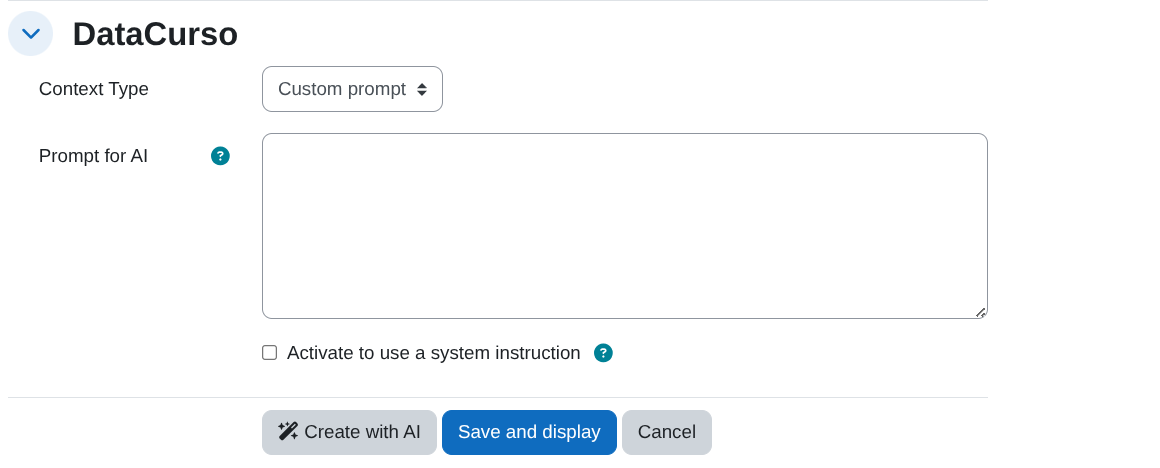
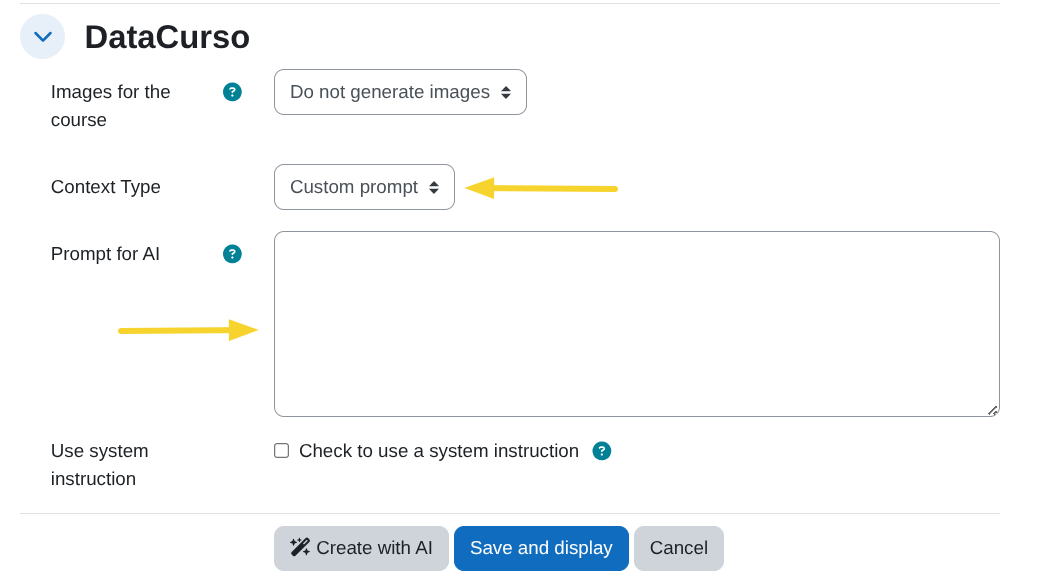
docs: update README to include image generation configuration on course form

diff --git a/README.md b/README.md
@@ -116,16 +116,23 @@ Follow these steps to create a new course using the Datacurso AI workflow:
 
 ### Configure the Datacurso section
 
-The `Datacurso` section controls how the AI will understand the course you want to create. It is divided into three main parts:
+The `Datacurso` section lets you define the context that the AI will use to understand the course you want to create and whether it should generate images. It is divided into four main configuration areas:
 
-- **1. Context type**
+- **1. Images for the course**
+  - Use the **Images for the course** selector to decide whether the AI should generate images for sections, activities and other visual elements of the course.
+  - By default this is set to **Do not generate images**.
+  - **Important:** Enabling image generation may drastically increase the number of credits consumed in your Datacurso AI Provider license key, because each generated image uses additional credits.
+
+  ![Image generation option](./_docs/images/local_coursegen_image_generation_option.png)
+
+- **2. Context type**
   - Use the **Context Type** selector to choose how you will provide the main context for the course:
     - **Custom prompt**: You describe the course context manually.
     - **Upload Syllabus (PDF)**: You provide an existing syllabus document.
 
     ![Context type](./_docs/images/local_coursegen_context_type.png)
 
-- **2. Context details**
+- **3. Context details**
   - **If you choose Custom prompt**
     - A textarea labeled **Prompt for AI** appears.
     - Enter a clear and detailed prompt that describes how you want the course to be generated (objectives, student profile, content, level, constraints, examples, etc.).
@@ -138,9 +145,9 @@ The `Datacurso` section controls how the AI will understand the course you want 
     
     ![Upload Syllabus](./_docs/images/local_coursegen_upload_syllabus.png)
 
-- **3. Optional system instructions (for any context type)**
+- **4. Optional system instructions (for any context type)**
   - You can reinforce **either** context type (`Custom prompt` or `Syllabus`) with a reusable system instruction.
-  - Tick the checkbox **Activate to use a system instruction** to enable this feature.
+  - Tick the checkbox **Check to use a system instruction** to enable this feature.
   - If there are system instructions configured (see [Manage system instructions](#manage-system-instructions)):
     - A selector labeled **System instruction to apply** appears with the available options.
     - The selected system instruction will be applied together with the chosen context (prompt or syllabus) when generating the course.
@@ -148,7 +155,6 @@ The `Datacurso` section controls how the AI will understand the course you want 
     - A notice is shown with a link to the ***Manage system instructions*** page so you can create them.
 
   ![System instruction to apply](./_docs/images/local_coursegen_system_instruction_to_apply.png)
-      
 
 ### Plan with AI
 
